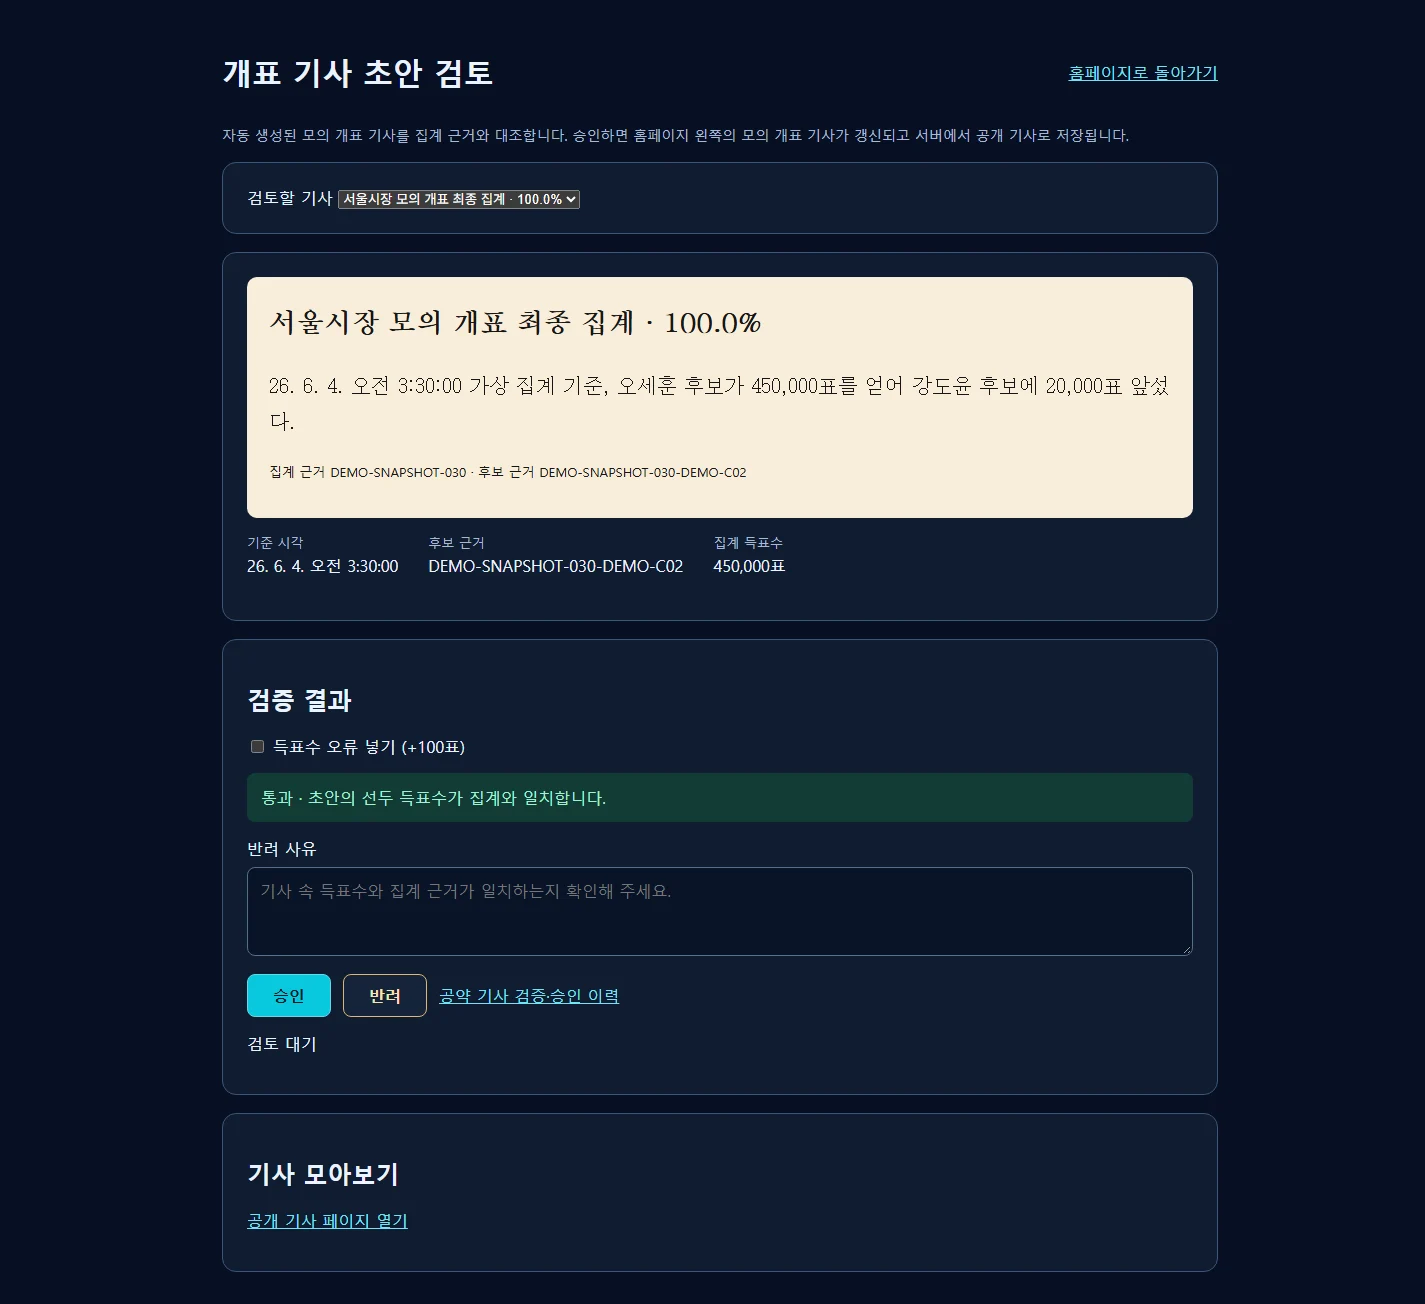
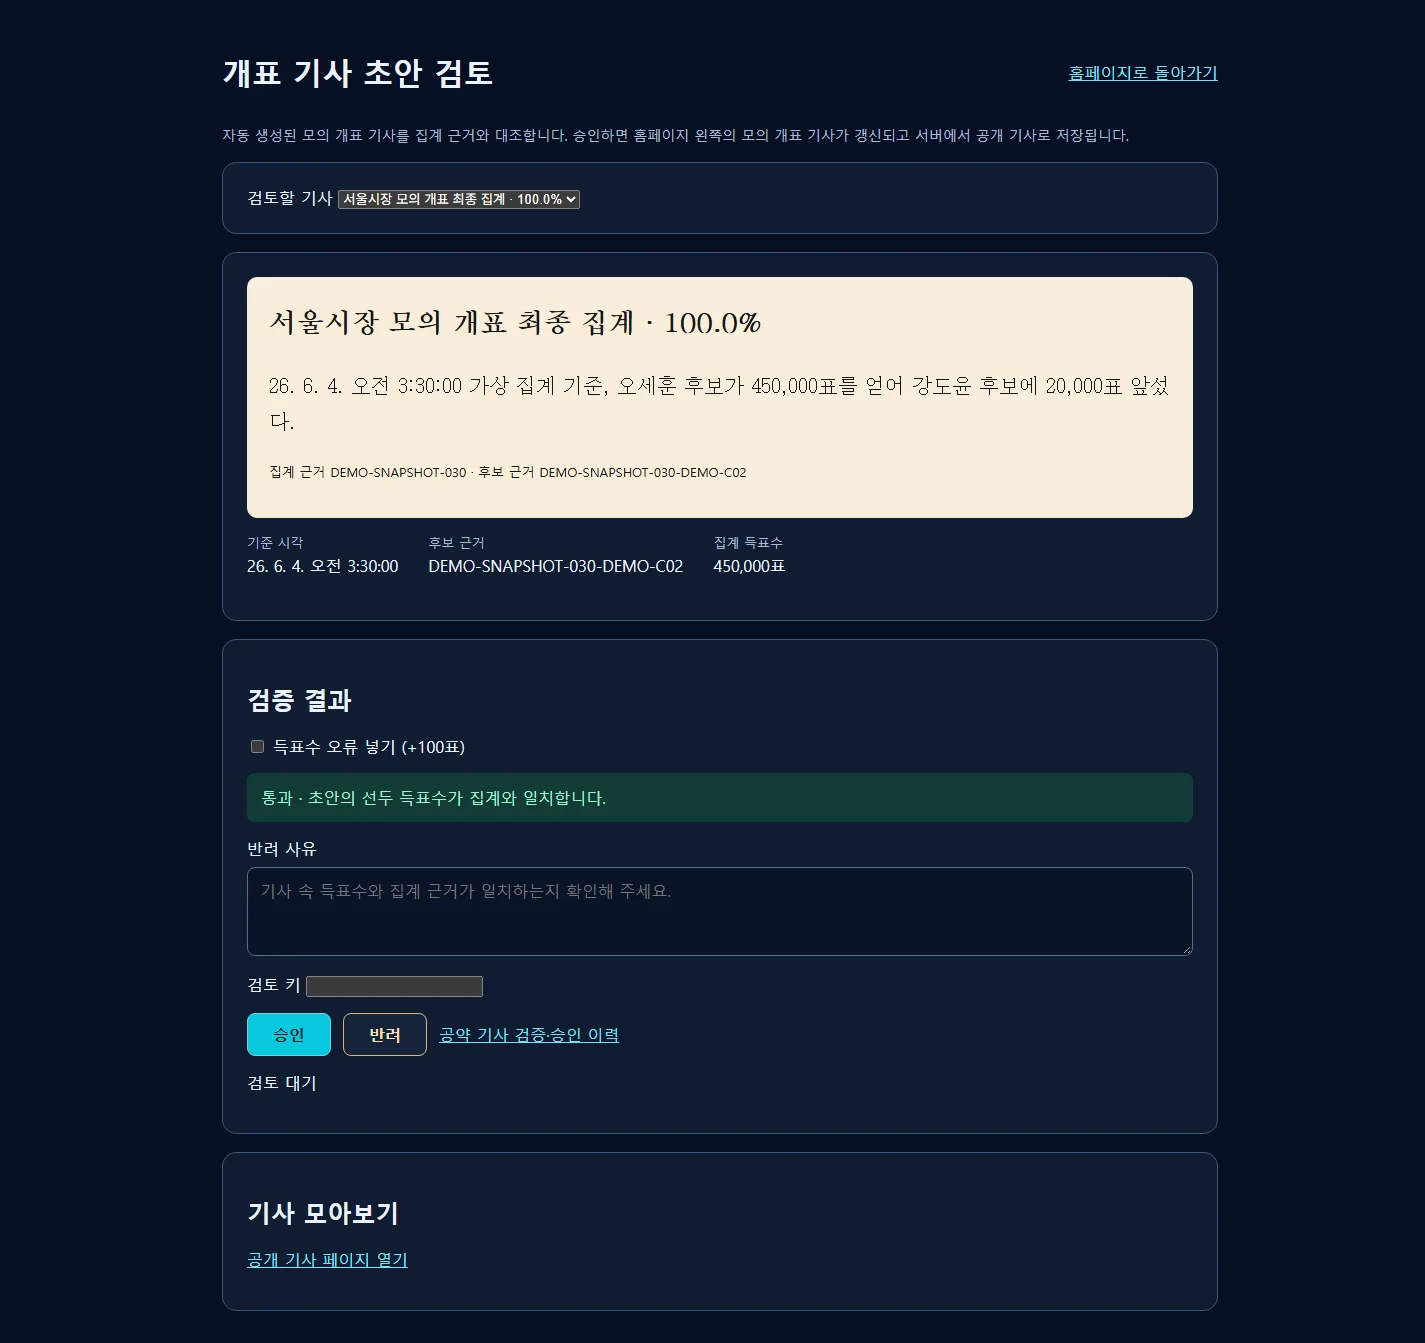
Require review authorization and include follow-ups in article history

diff --git a/demo/vote-review.html b/demo/vote-review.html
@@ -6,7 +6,7 @@
 <header><h1>개표 기사 초안 검토</h1><a id="home-link" href="index.html">홈페이지로 돌아가기</a></header>
 <p class="muted">자동 생성된 모의 개표 기사를 집계 근거와 대조합니다. 승인하면 홈페이지 왼쪽의 모의 개표 기사가 갱신되고 서버에서 공개 기사로 저장됩니다.</p>
 <section><label for="draft-list">검토할 기사</label> <select id="draft-list"></select></section><section><article class="draft"><h2 id="draft-title">기사 초안 대기</h2><p id="draft-body">홈페이지에서 모의 개표를 시작하면 자동 생성된 초안이 표시됩니다.</p><p id="draft-source" class="source">집계 근거 대기</p></article><dl><div><dt>기준 시각</dt><dd id="snapshot-time">—</dd></div><div><dt>후보 근거</dt><dd id="candidate-row">—</dd></div><div><dt>집계 득표수</dt><dd id="actual-votes">—</dd></div></dl></section>
-<section aria-labelledby="validation-heading"><h2 id="validation-heading">검증 결과</h2><label><input id="inject-error" type="checkbox" disabled> 득표수 오류 넣기 (+100표)</label><p id="review-check" class="check" role="status">검증 대기</p><label for="review-note">반려 사유</label><textarea id="review-note" rows="3" disabled placeholder="기사 속 득표수와 집계 근거가 일치하는지 확인해 주세요."></textarea><div class="actions"><button id="approve" disabled>승인</button><button id="reject" class="secondary" disabled>반려</button><a href="housing-review.html" id="housing-link">공약 기사 검증·승인 이력</a></div><p id="review-state" role="status">검토 대기</p></section>
+<section aria-labelledby="validation-heading"><h2 id="validation-heading">검증 결과</h2><label><input id="inject-error" type="checkbox" disabled> 득표수 오류 넣기 (+100표)</label><p id="review-check" class="check" role="status">검증 대기</p><label for="review-note">반려 사유</label><textarea id="review-note" rows="3" disabled placeholder="기사 속 득표수와 집계 근거가 일치하는지 확인해 주세요."></textarea><p id="review-key-row"><label for="review-key">검토 키</label> <input id="review-key" type="password" autocomplete="off"></p><div class="actions"><button id="approve" disabled>승인</button><button id="reject" class="secondary" disabled>반려</button><a href="housing-review.html" id="housing-link">공약 기사 검증·승인 이력</a></div><p id="review-state" role="status">검토 대기</p></section>
 <section><h2>기사 모아보기</h2><p><a href="articles.html">공개 기사 페이지 열기</a></p><button id="publish-existing" hidden>이 승인 기사 공개하기</button></section>
 <script src="vote-drafts.js"></script>
 <script>
@@ -42,13 +42,17 @@ function canPublish(entry) {
   return location.protocol !== 'file:' && entry.id.startsWith('feed:');
 }
 async function publish(entry) {
+  const key = get('review-key').value.trim();
+  if (!key) throw new Error('검토 키를 입력해 주세요.');
   const reason = entry.reason || entry.title.split(' 모의 개표 ')[1]?.split(' · ')[0];
   const response = await fetch('/api/articles/vote', {
     method: 'POST',
-    headers: { 'Content-Type': 'application/json' },
+    headers: { 'Content-Type': 'application/json', 'X-Reviewer-Key': key },
     body: JSON.stringify({ event_id: entry.frame.event_id, reason, votes: entry.votes })
   });
-  if (!response.ok) throw new Error('Publication failed');
+  if (response.status === 403) throw new Error('검토 키를 확인해 주세요.');
+  if (response.status === 503) throw new Error('서버에 검토 키를 설정해 주세요.');
+  if (!response.ok) throw new Error('공개 저장에 실패했습니다.');
   VoteDrafts.markPublished(entry.id);
 }
 get('publish-existing').addEventListener('click', async () => {
@@ -58,8 +62,8 @@ get('publish-existing').addEventListener('click', async () => {
     await publish(selected);
     loadDrafts();
     set('review-state', '공개 기사 목록에 저장했습니다.');
-  } catch {
-    set('review-state', '공개 저장에 실패했습니다. 다시 시도해 주세요.');
+  } catch (error) {
+    set('review-state', error.message);
   } finally {
     button.disabled = false;
   }
@@ -82,10 +86,10 @@ async function decide(status) {
     picker.disabled = true;
     try {
       await publish(entry);
-    } catch {
+    } catch (error) {
       picker.disabled = false;
       refresh();
-      set('review-state', '공개 저장에 실패했습니다. 다시 승인해 주세요.');
+      set('review-state', error.message);
       return;
     }
   }
@@ -111,6 +115,7 @@ picker.addEventListener('change', () => {
   get('review-note').value = '';
   refresh();
 });
+get('review-key-row').hidden = location.protocol === 'file:';
 get('inject-error').addEventListener('change', refresh);
 get('approve').addEventListener('click', () => decide('approved'));
 get('reject').addEventListener('click', () => decide('rejected'));

diff --git a/demo/articles.html b/demo/articles.html
@@ -33,6 +33,7 @@
     <nav class="sidebar" aria-label="기사 분류">
       <a href="index.html">← 대시보드</a>
       <button type="button" data-filter="all" aria-pressed="true">전체</button>
+      <button type="button" data-filter="previous" aria-pressed="false">이전 개표 기사</button>
       <button type="button" data-filter="count" aria-pressed="false">모의 개표</button>
       <button type="button" data-filter="followup" aria-pressed="false">후속기사</button>
       <button type="button" data-filter="housing" aria-pressed="false">공약 기사</button>
@@ -73,7 +74,8 @@
     }
 
     function renderGrid(filter) {
-      const items = articles.filter(article => filter === 'all' || article.kind === filter);
+      const items = articles.filter(article => filter === 'all' || article.kind === filter ||
+        (filter === 'previous' && (article.kind === 'count' || article.kind === 'followup')));
       for (const button of filters) button.setAttribute('aria-pressed', String(button.dataset.filter === filter));
       get('archive-status').textContent = items.length ? '' : '공개된 기사가 없습니다.';
       get('article-grid').replaceChildren(...items.map(article => {
@@ -121,7 +123,7 @@
           return;
         }
       }
-      renderGrid(location.hash === '#previous-articles' ? 'count' : 'all');
+      renderGrid(location.hash === '#previous-articles' ? 'previous' : 'all');
       const requested = new URLSearchParams(location.search).get('article');
       const article = articles.find(item => item.id === requested);
       if (article) openArticle(article);

diff --git a/demo/housing-review.html b/demo/housing-review.html
@@ -34,6 +34,7 @@
     <ol id="sentences"></ol>
     <label for="reviewer">검토자 이름</label>
     <input id="reviewer" maxlength="80">
+    <p><label for="review-key">검토 키</label> <input id="review-key" type="password" autocomplete="off"></p>
     <p><label for="reason">처리 사유 (반려 시 필수)</label></p>
     <textarea id="reason" maxlength="1000" rows="2"></textarea>
     <div>
@@ -56,7 +57,10 @@ let draft;
 let busy = false;
 async function request(path, body) {
   const response = await fetch(api + path, body ? {
-    method: 'POST', headers: {'Content-Type': 'application/json'}, body: JSON.stringify(body)
+    method: 'POST', headers: {
+      'Content-Type': 'application/json',
+      ...(path.endsWith('/decision') ? {'X-Reviewer-Key': get('review-key').value.trim()} : {})
+    }, body: JSON.stringify(body)
   } : {cache: 'no-store'});
   const data = await response.json();
   if (!response.ok) throw new Error(typeof data.detail === 'string' ? data.detail : data.detail?.message || '서버가 요청을 거절했습니다.');

diff --git a/demo/test_review_api.py b/demo/test_review_api.py
@@ -13,8 +13,8 @@ class ReviewApiTest(unittest.TestCase):
     def setUp(self):
         self.work=tempfile.TemporaryDirectory()
         self.db=str(Path(self.work.name)/'test.sqlite3')
-        self.env=patch.dict(os.environ,{'HOUSING_REVIEW_DB':self.db}); self.env.start()
-        self.client=TestClient(app)
+        self.env=patch.dict(os.environ,{'HOUSING_REVIEW_DB':self.db, 'ELECTION_REVIEW_KEY':'test-review-key'}); self.env.start()
+        self.client=TestClient(app, headers={'X-Reviewer-Key':'test-review-key'})
     def tearDown(self):
         self.client.close(); self.env.stop(); self.work.cleanup()
 
@@ -66,6 +66,21 @@ class ReviewApiTest(unittest.TestCase):
         articles = self.client.get('/api/articles').json()['vote']
         self.assertEqual(len(articles), 1)
         self.assertIn(frame['event_id'], articles[0]['source'])
+
+    def test_article_changes_require_review_key_but_public_reads_do_not(self):
+        draft = self.create()
+        vote = {'event_id': 'DEMO-SNAPSHOT-030', 'reason': '최종 집계', 'votes': 450000}
+        decision = {'action': 'approve', 'reviewer': '테스트 검토자'}
+        decision_url = f"/api/housing-review/drafts/{draft['id']}/decision"
+        with TestClient(app) as reader:
+            for path, payload in [('/api/articles/vote', vote), (decision_url, decision)]:
+                self.assertEqual(reader.post(path, json=payload).status_code, 403)
+                self.assertEqual(reader.post(path, json=payload, headers={'X-Reviewer-Key':'wrong'}).status_code, 403)
+                with patch.dict(os.environ, {'ELECTION_REVIEW_KEY': ''}):
+                    self.assertEqual(self.client.post(path, json=payload).status_code, 503)
+            self.assertEqual(reader.get('/api/articles').json(), {'vote': [], 'housing': []})
+            self.assertEqual(reader.get('/articles').status_code, 200)
+        self.assertEqual(self.client.get(f"/api/housing-review/drafts/{draft['id']}").json()['status'], 'pending')
 
     def test_missing_source_blocks_approval_and_rejection_requires_reason(self):
         draft=self.create('missing_source'); self.assertFalse(draft['validation']['can_approve'])

diff --git a/demo/check_housing_review_browser.py b/demo/check_housing_review_browser.py
@@ -32,6 +32,7 @@ with TemporaryDirectory(prefix="housing-review-browser-", ignore_cleanup_errors=
     directory = Path(work)
     db = directory / "housing-review.sqlite3"
     os.environ["HOUSING_REVIEW_DB"] = str(db)
+    os.environ["ELECTION_REVIEW_KEY"] = "browser-test-key"
     listener = socket.socket()
     listener.bind(("127.0.0.1", 0))
     port = listener.getsockname()[1]
@@ -85,7 +86,7 @@ with TemporaryDirectory(prefix="housing-review-browser-", ignore_cleanup_errors=
                 until(lambda: js("document.querySelector('#housing-editor')?.hidden === false"))
                 js("document.querySelector('#housing-editor summary').click(); document.querySelector('a[href=\"/housing-review\"]').click()")
                 until(lambda: js("document.querySelector('#history li')?.textContent"))
-                js("get('reviewer').value='Browser QA'; get('run').click()")
+                js("get('reviewer').value='Browser QA'; get('review-key').value='browser-test-key'; get('run').click()")
                 until(lambda: js("get('validation').textContent && !get('run').disabled"))
                 assert js("!get('approve').disabled"), js("get('validation').textContent")
                 js("get('approve').click()")
@@ -127,7 +128,7 @@ with TemporaryDirectory(prefix="housing-review-browser-", ignore_cleanup_errors=
                 command('Page.navigate',url=f'http://127.0.0.1:{port}'+review_url)
                 until(lambda: js("document.querySelector('#fixture-controls')?.hidden && !document.querySelector('#approve').disabled"))
                 assert js("document.querySelector('#review-question').textContent.includes("+json.dumps(question)+")")
-                js("get('reviewer').value='Generated Browser QA';get('approve').click()")
+                js("get('reviewer').value='Generated Browser QA'; get('review-key').value='browser-test-key'; get('approve').click()")
                 until(lambda: js("get('message').textContent.includes('승인 완료')"))
                 command('Page.reload',ignoreCache=True)
                 until(lambda: js("document.querySelector('#message')?.textContent.includes('저장 상태: 승인')"))

diff --git a/demo/housing_review.py b/demo/housing_review.py
@@ -7,13 +7,14 @@ from datetime import datetime, timezone
 from pathlib import Path
 from uuid import uuid4
 
-from fastapi import APIRouter, HTTPException
+from fastapi import APIRouter, Depends, HTTPException
 from fastapi.responses import FileResponse
 from pydantic import BaseModel, Field
 from typing import Literal
 from article_validation import validate
 from table_data import initialize
 from article_generation import generate_article, GenerationError
+from review_access import require_reviewer
 
 ROOT = Path(__file__).resolve().parent
 DATA = ROOT / "data" / "rag"
@@ -152,7 +153,7 @@ def get_saved_draft(draft_id: str):
     return {'id':draft_id,**payload,'status':row['status'],'validation':validate(payload)}
 
 
-@router.post("/api/housing-review/drafts/{draft_id}/decision")
+@router.post("/api/housing-review/drafts/{draft_id}/decision", dependencies=[Depends(require_reviewer)])
 def decide(draft_id: str, request: Decision):
     reviewer, reason = request.reviewer.strip(), request.reason.strip()
     if not reviewer or (request.action == "reject" and not reason):

diff --git a/demo/article_archive.py b/demo/article_archive.py
@@ -2,13 +2,13 @@
 import json
 from datetime import datetime, timezone
 from pathlib import Path
-from typing import Literal
 
-from fastapi import APIRouter, HTTPException
+from fastapi import APIRouter, Depends, HTTPException
 from fastapi.responses import FileResponse
 from pydantic import BaseModel, Field
 
 from housing_review import storage
+from review_access import require_reviewer
 
 ROOT = Path(__file__).resolve().parent
 router = APIRouter()
@@ -76,7 +76,7 @@ def articles_page():
     return FileResponse(ROOT / "articles.html")
 
 
-@router.post("/api/articles/vote")
+@router.post("/api/articles/vote", dependencies=[Depends(require_reviewer)])
 def publish_vote_article(request: VotePublication):
     article = vote_article(request)
     with storage() as db:

diff --git a/demo/review_access.py b/demo/review_access.py
@@ -1,0 +1,13 @@
+"""Check the team review key before accepting server-side decisions."""
+import os
+from hmac import compare_digest
+
+from fastapi import Header, HTTPException
+
+
+def require_reviewer(x_reviewer_key: str = Header(default="")):
+    expected = os.environ.get("ELECTION_REVIEW_KEY")
+    if not expected:
+        raise HTTPException(503, "서버에 검토 키를 설정해 주세요.")
+    if not compare_digest(x_reviewer_key.encode("utf-8"), expected.encode("utf-8")):
+        raise HTTPException(403, "검토 키를 확인해 주세요.")

diff --git a/demo/README.md b/demo/README.md
@@ -17,9 +17,10 @@ python -m venv .venv
 .\.venv\Scripts\python.exe -m uvicorn election_source:app --host 127.0.0.1 --port 8001
 ```
 
-터미널 2:
+터미널 2에서 검토 키를 정합니다. 개표 기사 공개 또는 공약 기사 승인·반려 화면에 같은 값을 입력합니다.
 
 ```powershell
+$env:ELECTION_REVIEW_KEY = [System.Net.NetworkCredential]::new("", (Read-Host "방송 서버 검토 키" -AsSecureString)).Password
 .\.venv\Scripts\python.exe -m uvicorn app:app --host 127.0.0.1 --port 8000
 ```
 
